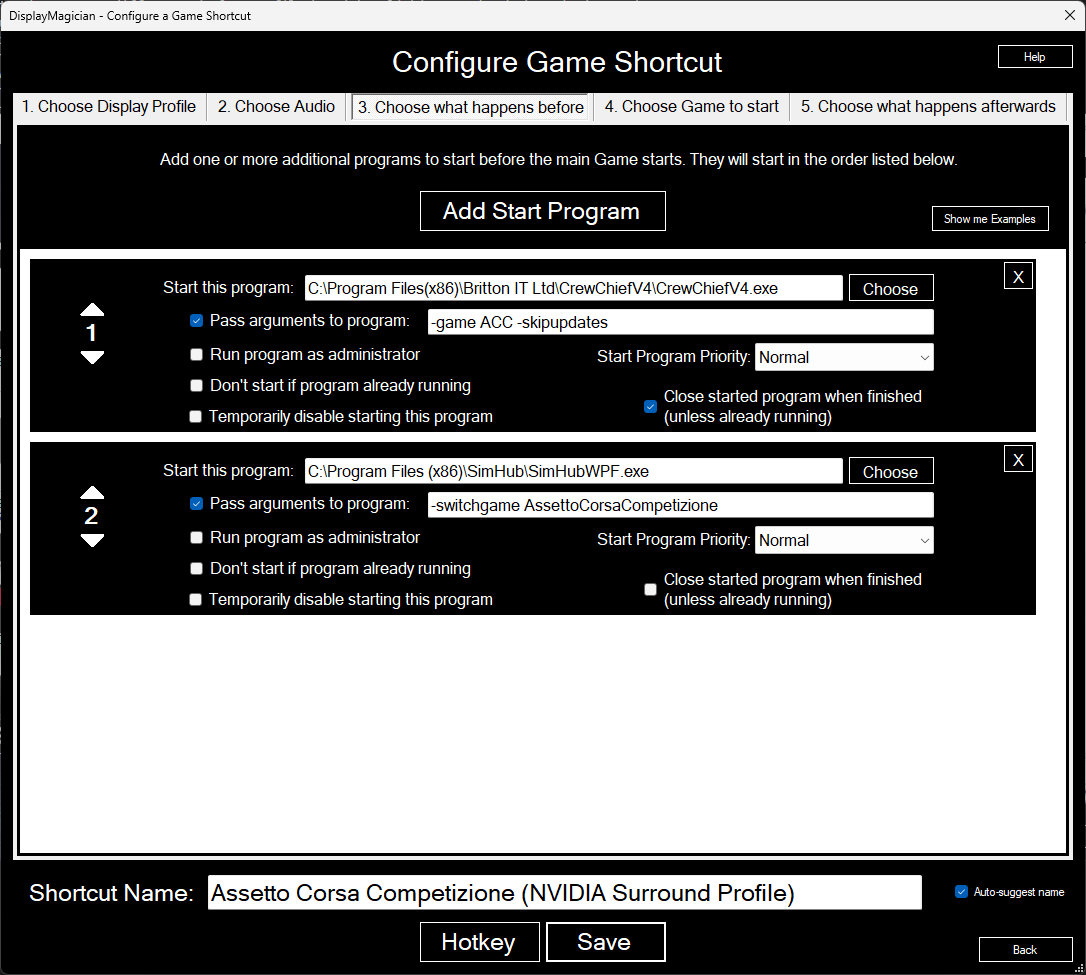
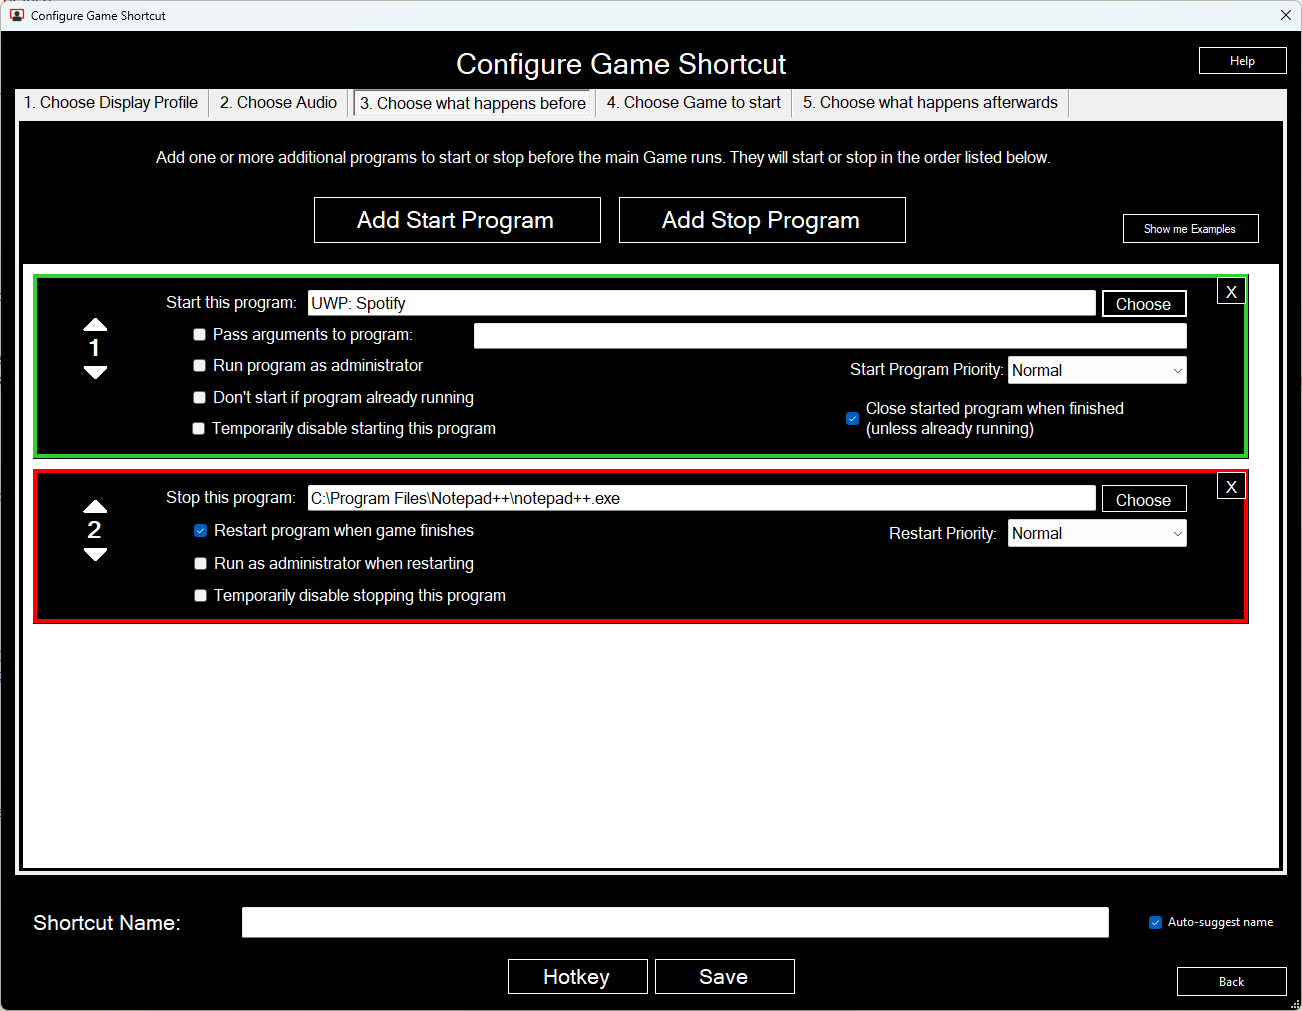
Adjusted UI form layouts where needed
Also updated some of the README screenshots

diff --git a/DisplayMagician/UIForms/ShortcutForm.Designer.cs b/DisplayMagician/UIForms/ShortcutForm.Designer.cs
@@ -352,9 +352,9 @@ namespace DisplayMagician.UIForms
             gb_audio_profile.Enabled = false;
             gb_audio_profile.Font = new System.Drawing.Font("Microsoft Sans Serif", 12F, System.Drawing.FontStyle.Regular, System.Drawing.GraphicsUnit.Point, 0);
             gb_audio_profile.ForeColor = System.Drawing.Color.White;
-            gb_audio_profile.Location = new System.Drawing.Point(26, 112);
+            gb_audio_profile.Location = new System.Drawing.Point(26, 80);
             gb_audio_profile.Name = "gb_audio_profile";
-            gb_audio_profile.Size = new System.Drawing.Size(1215, 613);
+            gb_audio_profile.Size = new System.Drawing.Size(1215, 644);
             gb_audio_profile.TabIndex = 0;
             gb_audio_profile.TabStop = false;
             gb_audio_profile.Text = "Audio Profiles to use";
@@ -547,9 +547,9 @@ namespace DisplayMagician.UIForms
             p_audio_access_warning.BackColor = System.Drawing.Color.FromArgb(194, 31, 31);
             p_audio_access_warning.Controls.Add(lnk_open_microphone_settings);
             p_audio_access_warning.Controls.Add(lbl_audio_access_warning);
-            p_audio_access_warning.Location = new System.Drawing.Point(26, 52);
+            p_audio_access_warning.Location = new System.Drawing.Point(289, 20);
             p_audio_access_warning.Name = "p_audio_access_warning";
-            p_audio_access_warning.Size = new System.Drawing.Size(1215, 54);
+            p_audio_access_warning.Size = new System.Drawing.Size(952, 54);
             p_audio_access_warning.TabIndex = 4;
             p_audio_access_warning.Visible = false;
             // 
@@ -557,10 +557,11 @@ namespace DisplayMagician.UIForms
             // 
             lnk_open_microphone_settings.ActiveLinkColor = System.Drawing.Color.White;
             lnk_open_microphone_settings.AutoSize = true;
+            lnk_open_microphone_settings.Font = new System.Drawing.Font("Microsoft Sans Serif", 9F, System.Drawing.FontStyle.Regular, System.Drawing.GraphicsUnit.Point, 0);
             lnk_open_microphone_settings.LinkColor = System.Drawing.Color.White;
-            lnk_open_microphone_settings.Location = new System.Drawing.Point(927, 17);
+            lnk_open_microphone_settings.Location = new System.Drawing.Point(736, 19);
             lnk_open_microphone_settings.Name = "lnk_open_microphone_settings";
-            lnk_open_microphone_settings.Size = new System.Drawing.Size(263, 20);
+            lnk_open_microphone_settings.Size = new System.Drawing.Size(204, 15);
             lnk_open_microphone_settings.TabIndex = 1;
             lnk_open_microphone_settings.TabStop = true;
             lnk_open_microphone_settings.Text = "Open Windows microphone settings";
@@ -570,9 +571,9 @@ namespace DisplayMagician.UIForms
             // lbl_audio_access_warning
             // 
             lbl_audio_access_warning.ForeColor = System.Drawing.Color.White;
-            lbl_audio_access_warning.Location = new System.Drawing.Point(12, 5);
+            lbl_audio_access_warning.Location = new System.Drawing.Point(5, 4);
             lbl_audio_access_warning.Name = "lbl_audio_access_warning";
-            lbl_audio_access_warning.Size = new System.Drawing.Size(885, 44);
+            lbl_audio_access_warning.Size = new System.Drawing.Size(716, 44);
             lbl_audio_access_warning.TabIndex = 0;
             lbl_audio_access_warning.TextAlign = System.Drawing.ContentAlignment.MiddleLeft;
             // 
@@ -1303,7 +1304,7 @@ namespace DisplayMagician.UIForms
             groupBox3.Controls.Add(cb_run_cmd_afterwards);
             groupBox3.Font = new System.Drawing.Font("Microsoft Sans Serif", 12F, System.Drawing.FontStyle.Regular, System.Drawing.GraphicsUnit.Point, 0);
             groupBox3.ForeColor = System.Drawing.Color.White;
-            groupBox3.Location = new System.Drawing.Point(204, 526);
+            groupBox3.Location = new System.Drawing.Point(204, 362);
             groupBox3.Margin = new System.Windows.Forms.Padding(4, 3, 4, 3);
             groupBox3.Name = "groupBox3";
             groupBox3.Padding = new System.Windows.Forms.Padding(4, 3, 4, 3);
@@ -1415,7 +1416,7 @@ namespace DisplayMagician.UIForms
             groupBox1.Size = new System.Drawing.Size(892, 145);
             groupBox1.TabIndex = 0;
             groupBox1.TabStop = false;
-            groupBox1.Text = "What happens to the Audio output afterwards?";
+            groupBox1.Text = "What happens to the Audio Profile afterwards?";
             // 
             // rb_switch_audio_permanent
             // 
@@ -1424,9 +1425,9 @@ namespace DisplayMagician.UIForms
             rb_switch_audio_permanent.Location = new System.Drawing.Point(114, 86);
             rb_switch_audio_permanent.Margin = new System.Windows.Forms.Padding(4, 3, 4, 3);
             rb_switch_audio_permanent.Name = "rb_switch_audio_permanent";
-            rb_switch_audio_permanent.Size = new System.Drawing.Size(502, 24);
+            rb_switch_audio_permanent.Size = new System.Drawing.Size(498, 24);
             rb_switch_audio_permanent.TabIndex = 45;
-            rb_switch_audio_permanent.Text = "Keep using the Audio Device after Game ends (permanent change)";
+            rb_switch_audio_permanent.Text = "Keep using the Audio Profile after Game ends (permanent change)";
             rb_switch_audio_permanent.UseVisualStyleBackColor = true;
             rb_switch_audio_permanent.CheckedChanged += rb_switch_audio_permanent_CheckedChanged;
             // 
@@ -1438,10 +1439,10 @@ namespace DisplayMagician.UIForms
             rb_switch_audio_temp.Location = new System.Drawing.Point(114, 44);
             rb_switch_audio_temp.Margin = new System.Windows.Forms.Padding(4, 3, 4, 3);
             rb_switch_audio_temp.Name = "rb_switch_audio_temp";
-            rb_switch_audio_temp.Size = new System.Drawing.Size(563, 24);
+            rb_switch_audio_temp.Size = new System.Drawing.Size(559, 24);
             rb_switch_audio_temp.TabIndex = 44;
             rb_switch_audio_temp.TabStop = true;
-            rb_switch_audio_temp.Text = "Revert back to original Audio Device (temporary change while running game)";
+            rb_switch_audio_temp.Text = "Revert back to original Audio Profile (temporary change while running game)";
             rb_switch_audio_temp.UseVisualStyleBackColor = true;
             rb_switch_audio_temp.CheckedChanged += rb_switch_audio_temp_CheckedChanged;
             // 

diff --git a/DisplayMagician/UIForms/ProfileSettingsForm.Designer.cs b/DisplayMagician/UIForms/ProfileSettingsForm.Designer.cs
@@ -108,7 +108,7 @@ namespace DisplayMagician.UIForms
             cmb_wallpaper_mode.Location = new System.Drawing.Point(244, 49);
             cmb_wallpaper_mode.Margin = new System.Windows.Forms.Padding(55, 19, 55, 19);
             cmb_wallpaper_mode.Name = "cmb_wallpaper_mode";
-            cmb_wallpaper_mode.Size = new System.Drawing.Size(200, 24);
+            cmb_wallpaper_mode.Size = new System.Drawing.Size(282, 24);
             cmb_wallpaper_mode.TabIndex = 1;
             cmb_wallpaper_mode.SelectedIndexChanged += cmb_wallpaper_mode_SelectedIndexChanged;
             // 
